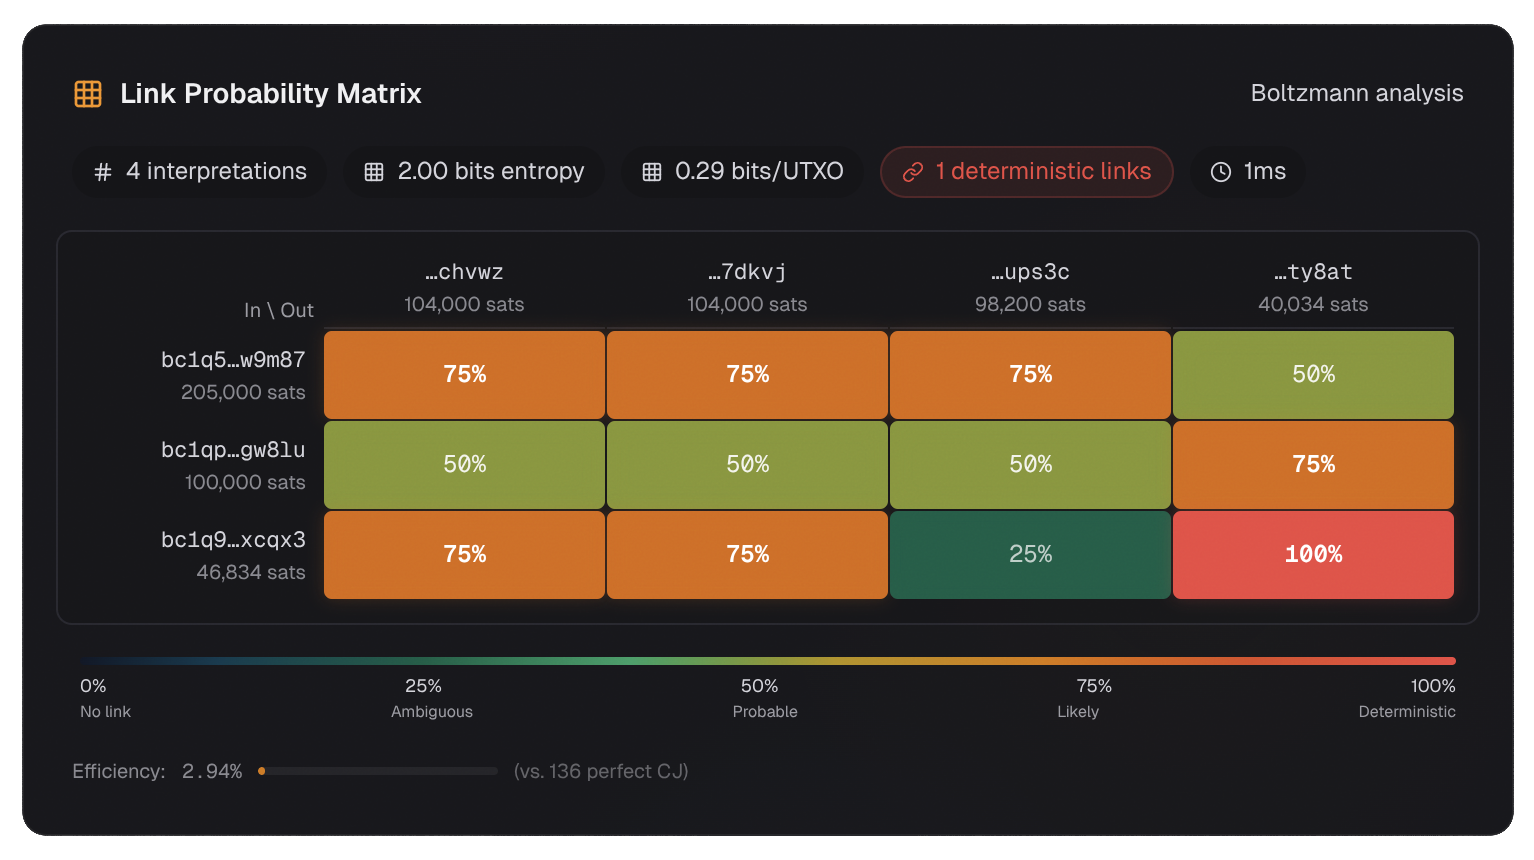
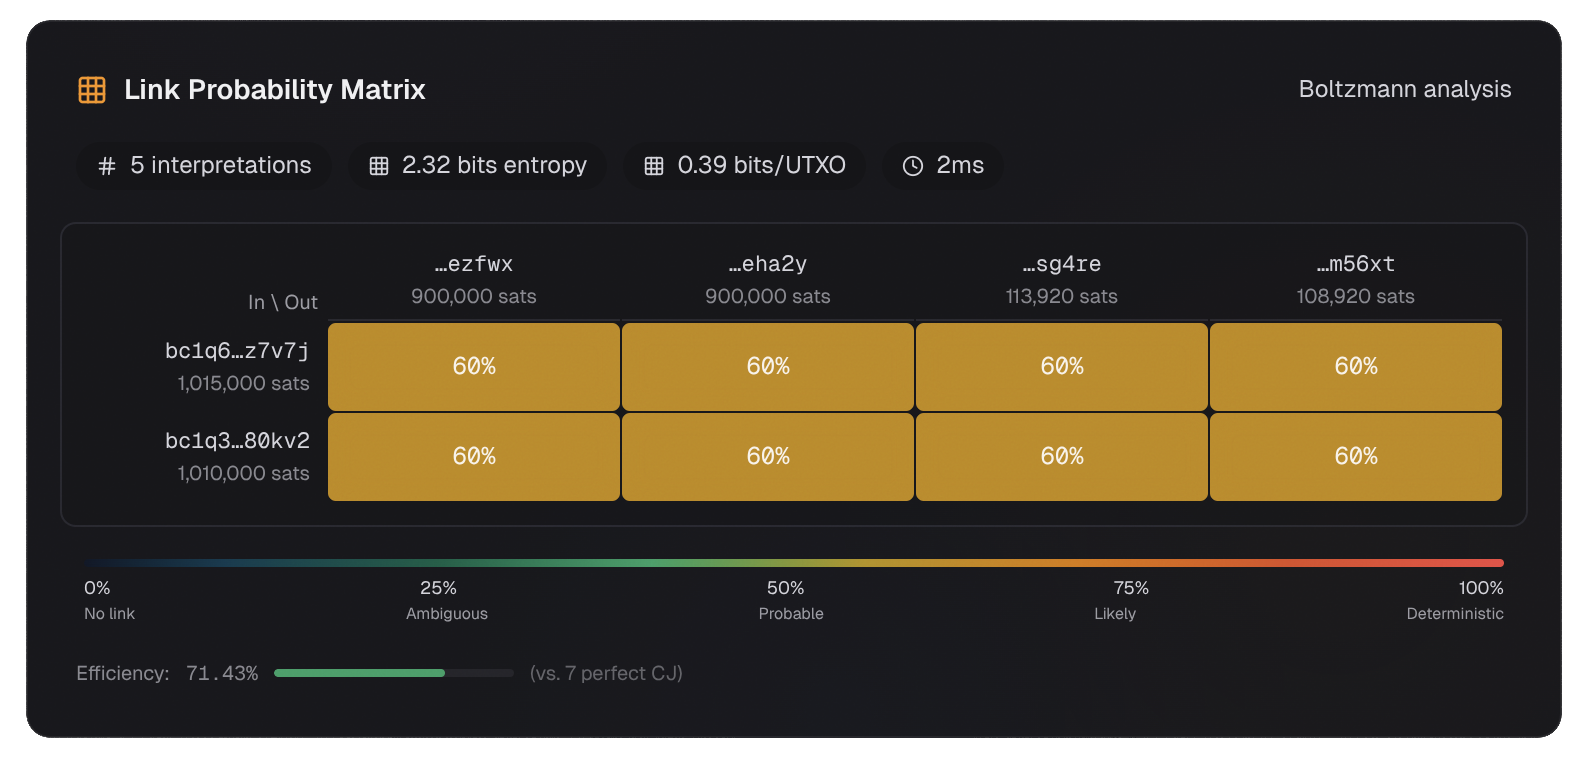
Update Stonewall

diff --git a/docs/analysis/stonewall.md b/docs/analysis/stonewall.md
@@ -6,49 +6,50 @@ description: Analyze a Stonewall transaction and learn how it creates plausible 
 
 Let us look at a [Stonewall](../glossary.md#stonewall) transaction - a technique that creates a transaction indistinguishable from a 2-party [CoinJoin](../glossary.md#coinjoin), but performed by a single user.
 
-This example demonstrates the [Boltzmann entropy](../boltzmann/index.md) framework. A Stonewall creates modest entropy (2 bits, 4 interpretations) - far less than a CoinJoin but far more than a normal payment (0 bits). For the full explanation of how entropy works, see the [What Is Entropy?](../boltzmann/what-is-entropy.md) page.
-
+Here is the example we will be looking at:
 ![Stonewall transaction scanned by am-i.exposed](../images/stonewall.png){ loading=lazy }
 
[1 lines of base64/hex data omitted]
+**Transaction ID:** [`5c038364...`](https://am-i.exposed/#tx=5c0383645b1df5d841323406b2d58651a7d41fd52530c85f20b5ad981072001f)
 
-**Structure:** 3 inputs → 4 outputs (2 equal outputs of 104,000 sats + 2 other outputs)
+**Structure:** 2 inputs → 4 outputs (2 equal outputs of 900,000 sats + 2 other change outputs)
 
 ---
 
 ## What We Notice
 
-This transaction has 3 inputs and 4 outputs, with 2 outputs being exactly equal (104,000 sats each). Let us look at the [Boltzmann entropy](../glossary.md#boltzmann-entropy) analysis:
+This transaction has 2 inputs and 4 outputs, with 2 outputs being exactly equal (900,000 sats each). Let us look at the [Boltzmann entropy](../glossary.md#boltzmann-entropy) analysis:
 
 ![Stonewall analysis - link probability matrix](../images/stonewall-analysis.png){ loading=lazy }
 
 ### Key Findings
 
-- **4 valid interpretations** (2.00 bits of entropy)
-- **0.29 bits per UTXO**
-- **1 deterministic link**
+- **5 valid interpretations** (2.32 bits of entropy)
+- **0.39 bits per UTXO**
+- **0 deterministic links**
 
 ---
 
 ## The Link Probability Matrix Explained
 
-The matrix above shows the probability that each input funded each output. Unlike the [Whirlpool CoinJoin](whirlpool.md) which had 1,496 interpretations, this Stonewall has only 4.
+The matrix above shows the probability that each input funded each output. Unlike the [Whirlpool CoinJoin](whirlpool.md) which had 1,496 interpretations, this Stonewall has 5.
 
-### Why Only 4 Interpretations?
+### Why 5 Interpretations?
 
 A Stonewall transaction has a specific structure:
-- 3 inputs in this case (from the sender's wallet)
-- 4 outputs: 2 equal-value outputs (104,000 sats) + 2 different-value outputs (change)
+- 2 inputs (1,015,000 sats and 1,010,000 sats)
+- 4 outputs: 2 equal-value outputs (900,000 sats each) + 2 different-value outputs (change totalling 222,840 sats)
 
-The 4 valid interpretations represent the different ways the 3 inputs could have funded the 4 outputs while respecting the value constraints. Each interpretation is a valid "story" about how the funds flowed.
+The 5 valid interpretations represent the different ways the 2 inputs could have funded the 4 outputs while respecting the value constraints. Each interpretation is a valid "story" about how the funds flowed.
 
-### 2 Bits of Entropy
+### 2.32 Bits of Entropy
 
-Entropy = log2(4) = 2.00 bits. This is modest compared to Whirlpool's 10.55 bits, but it is far better than a normal payment's 0 bits.
+$$E = \log_2(5) = 2.32 \text{ bits}$$
 
-### 1 Deterministic Link
+This is modest compared to Whirlpool's 10.55 bits, but it is far better than a normal payment's 0 bits. With 6 UTXOs involved, this gives us 0.39 bits per UTXO.
 
-One input-output pair has a 100% link this is because the 46,834 sats input could only create an output smaller than itself (40,034 sats in this specific example).
+### 0 Deterministic Links
+
+Unlike many transactions, this Stonewall has no deterministic links. No single input-output pair appears in all 5 interpretations. This means there is genuine ambiguity about which input funded which output - the privacy benefit is maximized.
 
 ---
 
@@ -56,7 +57,7 @@ One input-output pair has a 100% link this is because the 46,834 sats input coul
 
 am-i.exposed detected this as a Stonewall pattern. Here is what that means:
 
-**Stonewall is designed to create ambiguity about input ownership** - an observer cannot tell if all 3 inputs belong to one wallet (solo Stonewall) or two wallets (STONEWALLx2, a collaborative version).
+**Stonewall is designed to create ambiguity about input ownership** - an observer cannot tell if both inputs belong to one wallet (solo Stonewall) or two different wallets (STONEWALLx2, a collaborative version).
 
 This is the key privacy benefit: **plausible deniability**. Even if an analyst suspects this is a Stonewall, they cannot prove whether it was solo or collaborative.
 
@@ -68,7 +69,7 @@ This is the key privacy benefit: **plausible deniability**. Even if an analyst s
 
 ## Stonewall vs Normal Transaction
 
-| Feature | Normal 3-in-4-out | Stonewall |
+| Feature | Normal 2-in-4-out | Stonewall |
 |---------|-------------------|-----------|
 | Equal outputs | Unlikely | 2 equal outputs by design |
 | Entropy | Usually 0 bits | 2+ bits |
